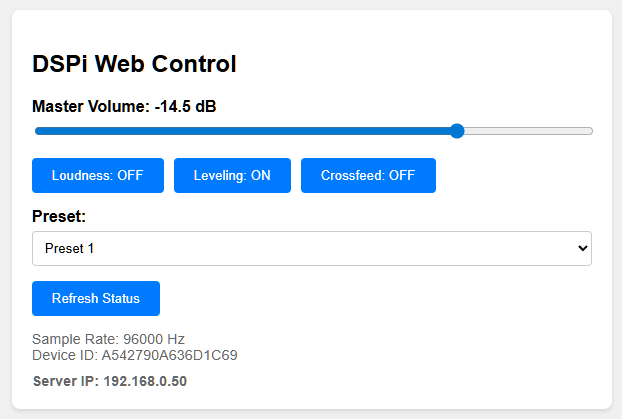
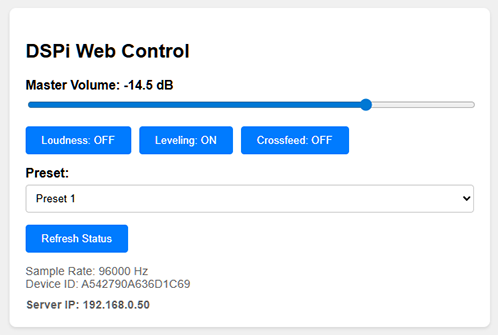
next rev

diff --git a/DSPiCliServer/Services/StatsViewModel.cs b/DSPiCliServer/Services/StatsViewModel.cs
@@ -3,9 +3,12 @@ using CommunityToolkit.Mvvm.ComponentModel;
 using DSPiConsole.Core.Models;
 using DSPiConsole.Usb;
 
+// !! note this is set to not compile
+// none of this code is used but it's a reference for me or an AI to scan through to create
+// helper functions. It is code from DSPiConsole
 
 namespace DSPiCliServer.Services;
-
+//#if false
 public partial class StatsViewModel : ObservableObject, IDisposable
 {
     private readonly DspDevice _device;
@@ -192,3 +195,4 @@ public partial class StatsViewModel : ObservableObject, IDisposable
         GC.SuppressFinalize(this);
     }
 }
+// #endif // false test

diff --git a/DSPiCliServer/ViewModels/MainWindowViewModel.cs b/DSPiCliServer/ViewModels/MainWindowViewModel.cs
@@ -60,7 +60,7 @@ public partial class MainWindowViewModel : ObservableObject
 
     public void OnErrorMessage(DeviceManager devService, object? sender, EventArgs e)
     {
-        //var ErrorMessage = devService.MyDevice.ErrorMessage;
+       Console.WriteLine(devService.MyDevice.ErrorMessage);
     }
 
     private void OnConnected(DeviceManager devService, object? sender, EventArgs e)

diff --git a/README.MD b/README.MD
@@ -3,12 +3,16 @@ MZachmann
 
 This is a tiny web page provider intended to work with the [WeebLabs DSPi project](https://github.com/WeebLabs/DSPi) that provides a quick gui via web browser.
 
+### To prepare to run it:
+* install .NET 10 if you haven't already (see below)
+* download the latest release (zip file) from the [releases page](https://github.com/MZachmann/DSPiCliRemote/releases)
+* * unzip that into a folder
+
 ### To run it:
-* download the latest release from the [releases page](https://github.com/MZachmann/DSPiCliRemote/releases)
-* install .NET 10 if you haven't already
-* unzip the archive into a folder
-* run the server and it should start listening then sit there
-* run a browser and go to http://yourip:yourport
+* in that folder, run the server 
+* it should print a few lines about which ports you've picked 
+then it starts listening and just sits there
+* run a browser and go to http://yourip:yourport to see the web page
 
 ### To build it:
 * open the solution in Visual Studio or JetBrains Rider
@@ -19,7 +23,6 @@ This is a tiny web page provider intended to work with the [WeebLabs DSPi projec
 The **Server** is a small (about 5MB currently) console application that runs in Windows, 
 Mac, and Linux. Install/run it on the computer driving the DSPi Pico USB port. It takes very few resources.
 
-Web View
 ![web](./Images/Gui001.png)
 
 The Server listens to two network ports (your choice which) and 
@@ -32,11 +35,37 @@ Mac, and Linux. It should run on any desktop (Windows, Mac, Linux). It has a sma
 user interface that lets you send text queries and commands to the DSPi Pico and get text results. 
 It also has a secondary Window with a display like the web page.
 
-### Notes
+### non-Windows Operating System Installations
+All of these use the labeled zips and (except Mac) need to make the program executable.
+
 #### Mac OS X
-For Mac you will need to install the libusb-1.0.dylib library and ensure it is visible in the path. Homebrew (brew) works
-well for this: "brew install libusb".
-#### Linux
-The linux build is currently being tested. It runs but also needs some unclear fixup for talking to the DSPi usb port. When (if?) this is
-tested and running the two linux releases (x64 and arm64) will be added to the release.
+Start by installing .NET 10 from the web.
+Then install the libusb-1.0 library and ensure it is visible in the path.
+Use Homebrew (brew) to install it: "brew install libusb". Watch where it installs it.
+_I had to move the dylib file somewhere my stuff could find it so the app can control the Pico._
+
+After you try to run it, unblock it
+in the Privacy tab of the Security & Privacy settings and allow it to run/communicate.
+
+#### Ubuntu 
+Follow the first few sets of instructions on the page below to install .NET 10 on Ubuntu and Raspbian
+https://learn.microsoft.com/en-us/dotnet/iot/deployment
+then...
+
+On **Ubuntu** you have to add permission to the USB port hardware (which starts read-only).
+The simplest approach is to run this bash script below which will give your user read-write
+access to all USB devices.
+```bash
+# Create a group called usbwriters
+sudo groupadd usbwriters
+# Add you to the group
+sudo usermod -a -G usbwriters $USER
+# Allow access to the USB port by adding a rule granting the group access to the subsystem
+echo 'SUBSYSTEM=="usb", MODE="0666", GROUP="usbwriters"' | sudo tee /etc/udev/rules.d/99-usbwriters.rules
+# Reboot
+echo "Please reboot"
+```
+#### Raspbian
+**Raspbian** remains non-working for now. More investiation is needed. The Ubuntu instructions
+all work but it still does not find the Pico.
 